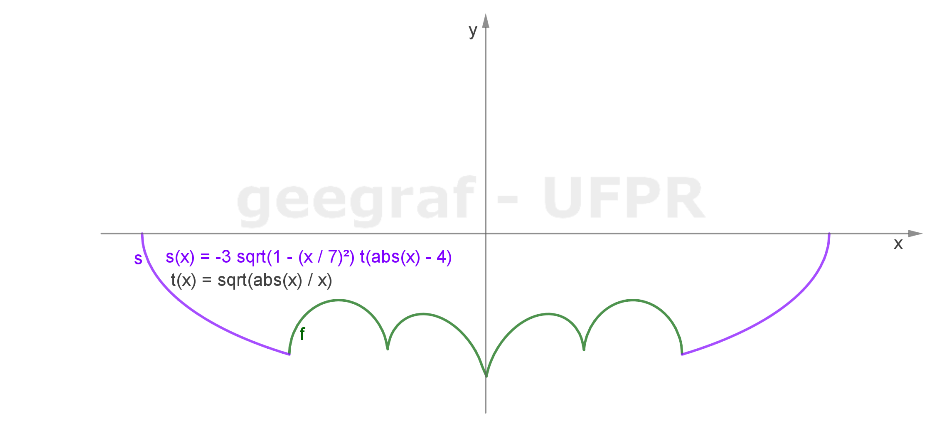
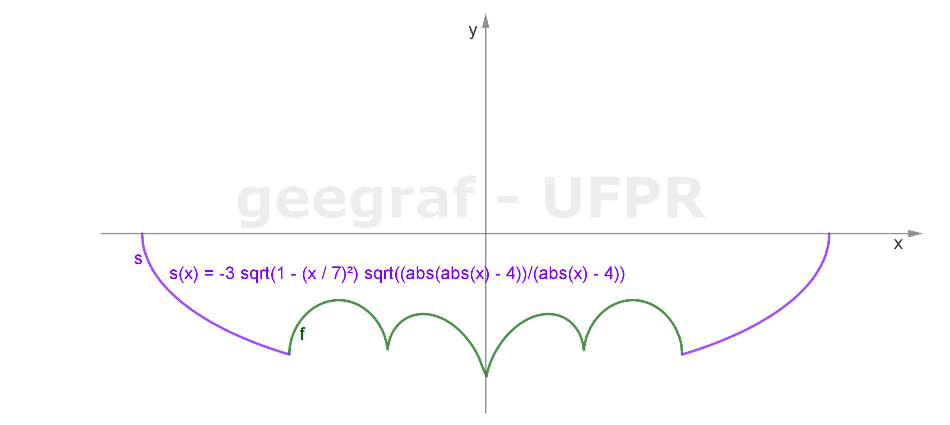
update

Changed region(s): [[0.1526, 0.5812, 0.6716, 0.6729]]

diff --git a/README.md b/README.md
@@ -7453,7 +7453,7 @@
 			   <input type="radio" id="964" name="sl">
 			   <label for="964"></label>
 			   <img src="modulo6/77_01_02.png" loading="lazy"/>
-			   <figcaption>Defina as funções: $\mathsf{ s(x) = -3 \sqrt{1 - \left( { {x} \over {7} } \right)^{2} } \cdot t(x) \cdot (|x| - 4) }$ e $\mathsf{ t(x) = {\sqrt{|x|} \over {x} } }$.</figcaption>
+			   <figcaption>Defina a função: $\mathsf{ s(x) = -3 \sqrt{1 - \left( { {x} \over {7} } \right)^{2} } \sqrt{{||x| - 3|} \over {|x| - 4} }}$.</figcaption>
 		   </li>
 		   <li>
 			   <input type="radio" id="965" name="sl">
